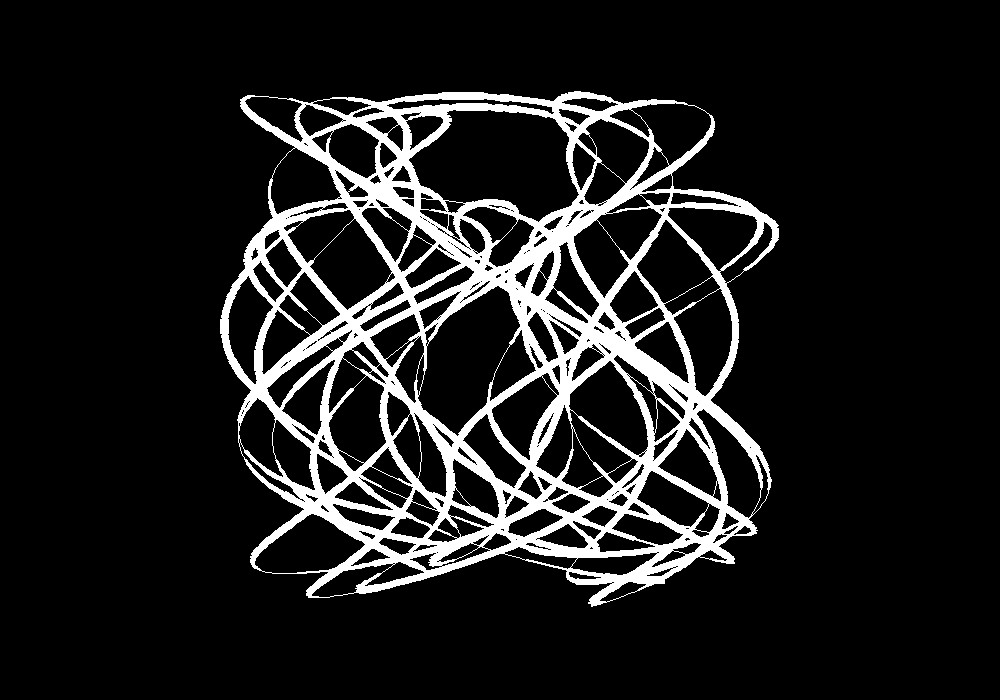
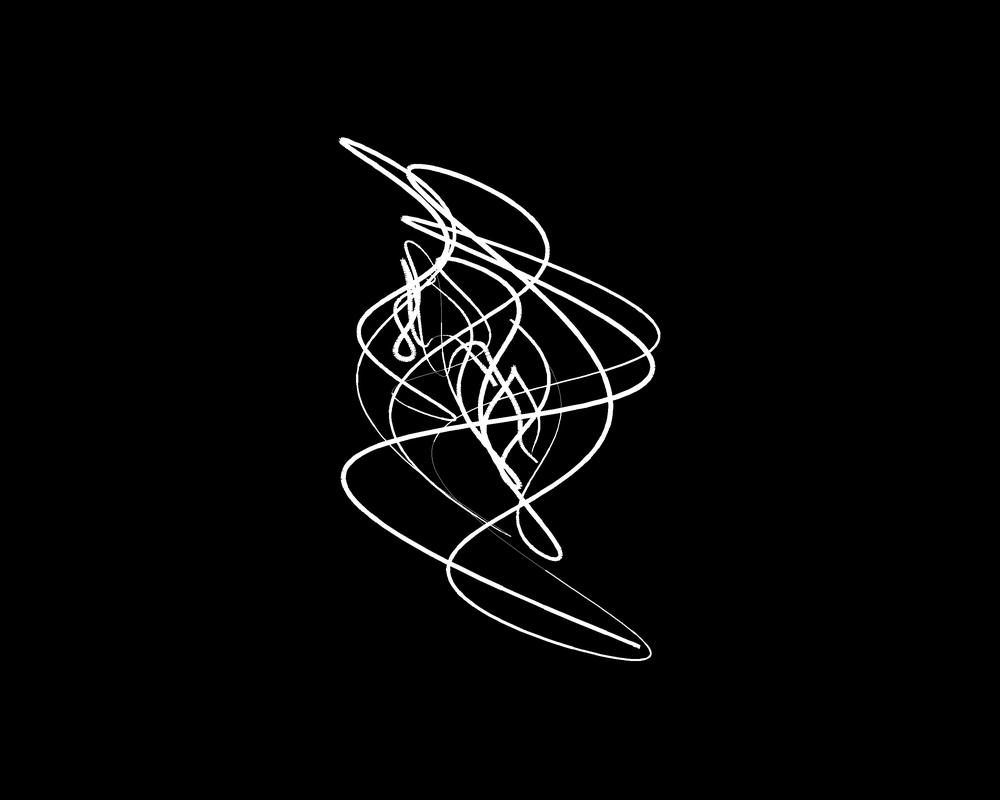
added damping

Changed region(s): [[0.217, 0.12, 0.775, 0.87]]

diff --git a/tools/harmonograph/harmono.py b/tools/harmonograph/harmono.py
@@ -4,7 +4,16 @@ import math
 import Tkinter
 import pickle
 
+#how long to make all the sliders
 scale_l = 150
+
+#how much to scale the background image to make the lines smoother
+resample = 3
+
+#size of background image
+size = (resample * 1000, resample * 800)
+
+
 class Sine():
     #we store parent so we can call update() when a control is changed
     def __init__(self,number,parent):
@@ -16,6 +25,7 @@ class Sine():
         self.freq = Tkinter.DoubleVar()
         self.amp = Tkinter.DoubleVar()
         self.angle = Tkinter.DoubleVar()
+        self.damp = Tkinter.DoubleVar()
 
         self.load()
 
@@ -27,7 +37,7 @@ class Sine():
         widget.bind('<ButtonRelease>',self.parent.update)
         self.controls.append(widget)
 
-        widget = Tkinter.Scale(self.frame,label='f',from_=0, to=2, resolution=0.01, orient=Tkinter.VERTICAL,variable=self.freq,length=scale_l,showvalue=0)
+        widget = Tkinter.Scale(self.frame,label='f',from_=0, to=1, resolution=0.01, orient=Tkinter.VERTICAL,variable=self.freq,length=scale_l,showvalue=0)
         widget.bind('<ButtonRelease>',self.parent.update)
         self.controls.append(widget)
 
@@ -40,12 +50,18 @@ class Sine():
        
         self.controls.append(widget)
 
+        widget = Tkinter.Scale(self.frame,label='d',from_=0, to=0.1, resolution=0.001, orient=Tkinter.VERTICAL,variable=self.damp,length=scale_l,showvalue=0)
+        widget.bind('<ButtonRelease>',self.parent.update)
+       
+        self.controls.append(widget)
+
+
     def get_x(self,t):
-        return self.amp.get() * math.sin(t*self.freq.get()+self.phase.get()) * self.angle.get() # math.sin(self.angle.get())
+        return resample * self.amp.get() * math.sin(t*self.freq.get()+self.phase.get()) * self.angle.get() * math.exp(-t*self.damp.get())
 
     
     def get_y(self,t):
-        return self.amp.get() * math.sin(t*self.freq.get()+self.phase.get()) * (1-self.angle.get())# math.cos(self.angle.get())
+        return resample * self.amp.get() * math.sin(t*self.freq.get()+self.phase.get()) * (1-self.angle.get()) * math.exp(-t*self.damp.get())
 
     def get_controls(self):
         for control in self.controls:
@@ -55,6 +71,7 @@ class Sine():
     def save(self):
         config = {
             'amp' : self.amp.get(),
+            'damp' : self.damp.get(),
             'freq' : self.freq.get(),
             'phase' : self.phase.get(),
             'angle' : self.angle.get(),
@@ -70,6 +87,7 @@ class Sine():
                 self.phase.set(config['phase'])
                 self.freq.set(config['freq'])
                 self.amp.set(config['amp'])
+                self.damp.set(config['damp'])
                 self.angle.set(config['angle'])
         except:
             #initialise
@@ -83,7 +101,8 @@ class Frame():
 
     def __init__(self):
         self.tk = Tkinter.Tk()
-        self.size = (1000,700)
+        #this will be halved as we will antialias the lines
+        self.size = size
         #label is where we show the image
         self.bg = Tkinter.Label()
         self.bg.grid(row=1,column=0,columnspan=30,rowspan=30)
@@ -139,6 +158,7 @@ class Frame():
             for sine in self.sines:
                 x += sine.get_x(t)
                 y += sine.get_y(t)
+                #print(x,y)
                 #hack for depth
                 z = abs(self.zsine.get_x(t))
 
@@ -207,11 +227,14 @@ class Frame():
         self.draw = ImageDraw.Draw(self.image)
 
     def update_image(self):
-        tk_image = ImageTk.PhotoImage(self.image)
+        #halve the image size
+        resized_image = self.image.resize((self.size[0]/resample,self.size[1]/resample),resample=Image.ANTIALIAS)
+        tk_image = ImageTk.PhotoImage(resized_image)
         self.bg.configure(image = tk_image)
         self.bg.image = tk_image
+
         #write it out
-        self.image.save("sine.png")
+        resized_image.save("sine.png")
 
 
 frame = Frame()

diff --git a/tools/harmonograph/README.md b/tools/harmonograph/README.md
@@ -17,3 +17,7 @@ This is an attempt to make a computer program that produces similiar patterns wi
     * Linux - sudo pip install PIL
     * [Mac](http://stackoverflow.com/questions/9070074/how-to-install-pil-on-mac-os-x-10-7-2-lion)
     * [Windows](http://stackoverflow.com/a/4579917)
+
+# Todo
+
+* done - add damping?
